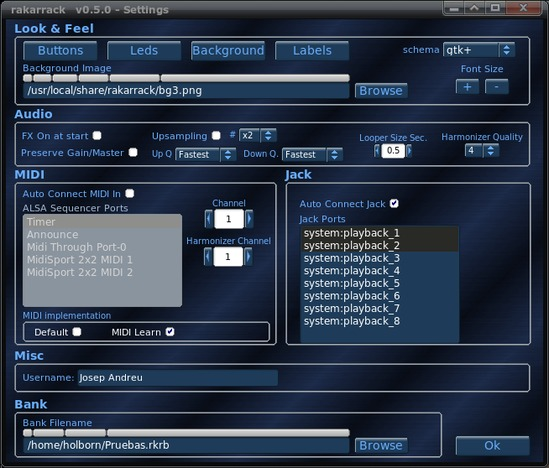
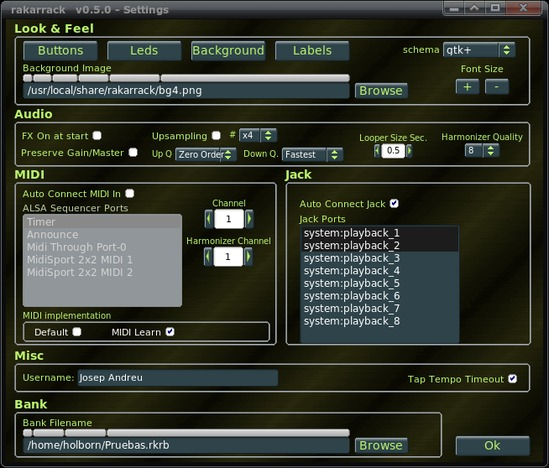
modified:   ChangeLog 	modified:   doc/help/help.html 	modified:   doc/help/imagenes/settings.jpg 	modified:   src/global.h 	modified:   src/process.C 	modified:   src/rakarrack.cxx 	modified:   src/rakarrack.fl 	modified:   src/rakarrack.h

diff --git a/doc/help/help.html b/doc/help/help.html
@@ -3,6 +3,7 @@
 
 
 
+
   
   <meta http-equiv="CONTENT-TYPE" content="text/html; charset=utf-8"><title>Rakarrack Help</title>
   
@@ -479,8 +480,15 @@ Last Name (nick). Of course you have to give a descriptive name to
 your preset. If you have a good preset and want to share or want to
 be included in future versions, send it to this address
 <a href="mailto:holborn@users.sourceforge.net">holborn@users.sourceforge.net</a></p>
+<p align="justify"><b>Tap Tempo Timeout</b></p>
+
+
+<p align="justify">Enable/Disable
+the Tap Tempo timeout, if it's enabled,&nbsp; 8 seconds&nbsp; after the
+last signal, Tap Tempo is put to Off</p>
 
 <p align="justify"><u><b>Bank</b></u></p>
+
 
 <p align="justify">Here you can specify what file bank is loaded when
 program starts.</p>
@@ -2013,7 +2021,7 @@ the Tempo parameter is updated on all the effects that has the "On"
 state.</p>
 
 <p>Tap Tempo has an automatic reset timeout, 8 seconds after the last
-signal.<br>
+signal. This need to be enabled in the window settings.<br>
 </p>
 
 <p><a href="help.html#top">Contents</a></p>

diff --git a/src/rakarrack.h b/src/rakarrack.h
@@ -2844,6 +2844,11 @@ private:
   void cb_Username_i(Fl_Input*, void*);
   static void cb_Username(Fl_Input*, void*);
 public:
+  Fl_Check_Button *T_TIMEOUT;
+private:
+  void cb_T_TIMEOUT_i(Fl_Check_Button*, void*);
+  static void cb_T_TIMEOUT(Fl_Check_Button*, void*);
+public:
   Fl_Group *BANK_SET;
   Fl_File_Input *BFiname;
   Fl_Button *BF_Browser;

diff --git a/src/process.C b/src/process.C
@@ -1021,7 +1021,7 @@ RKR::Alg (float *inl1, float *inr1, float *origl, float *origr, void *)
   efxoutl = inl1;
   efxoutr = inr1;
 
-  if(Tap_Bypass) TapTempo_Timeout(1); 
+  if((t_timeout) && (Tap_Bypass)) TapTempo_Timeout(1); 
 
   if (Bypass)
     {

diff --git a/src/global.h b/src/global.h
@@ -507,6 +507,7 @@ public:
   int Tap_Display;
   int Tap_Selection;
   int Tap_TempoSet;
+  int t_timeout;
 
 };
 
